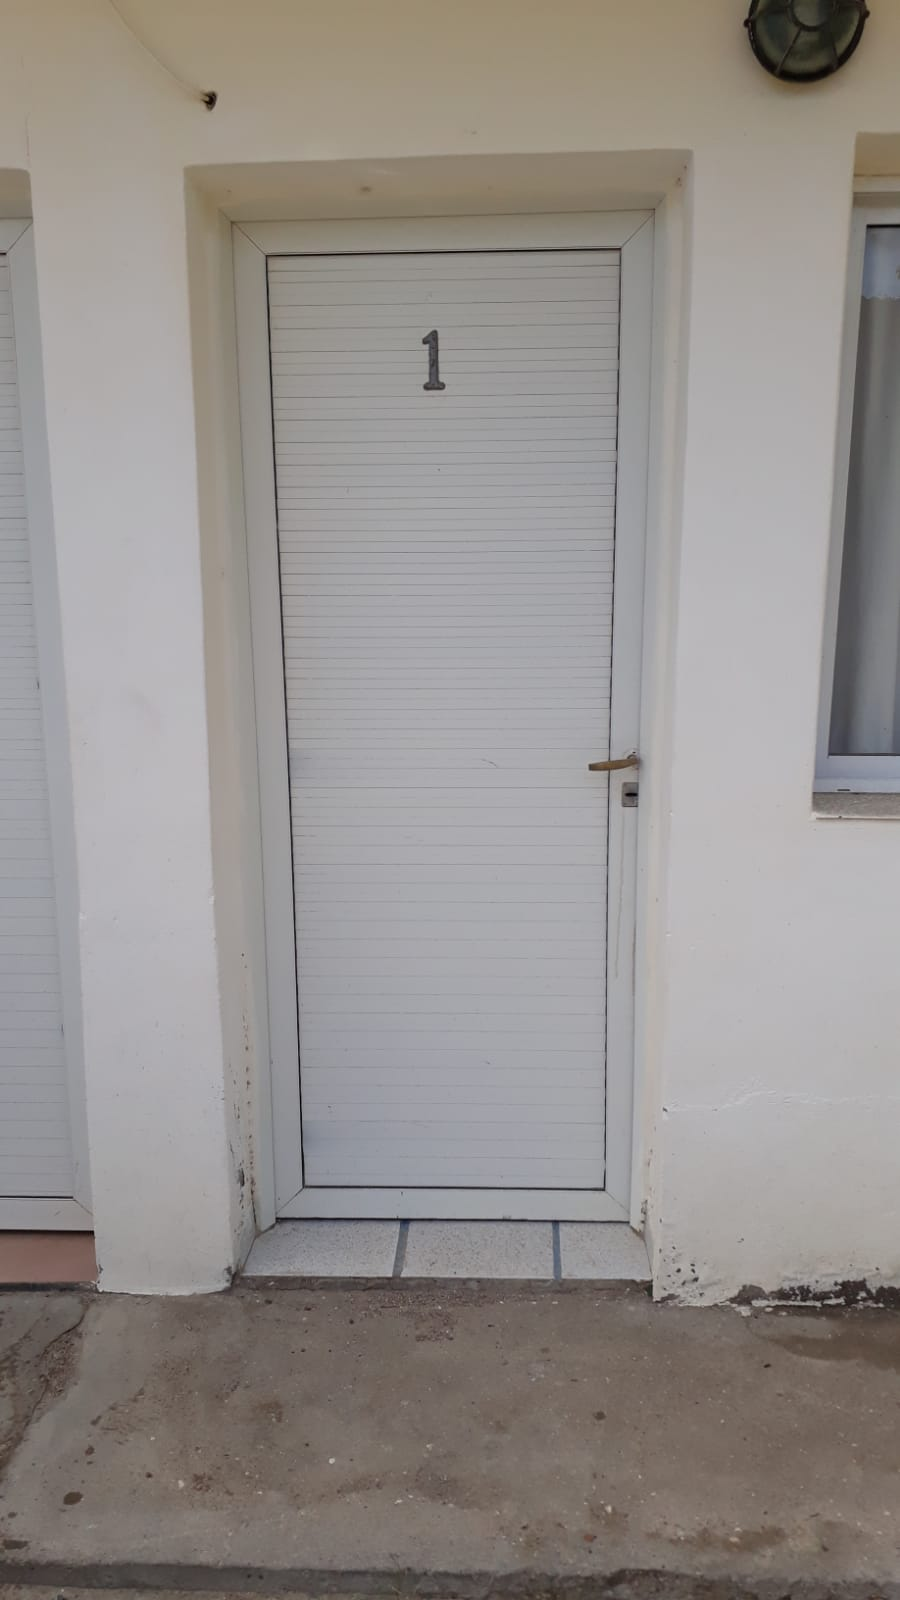
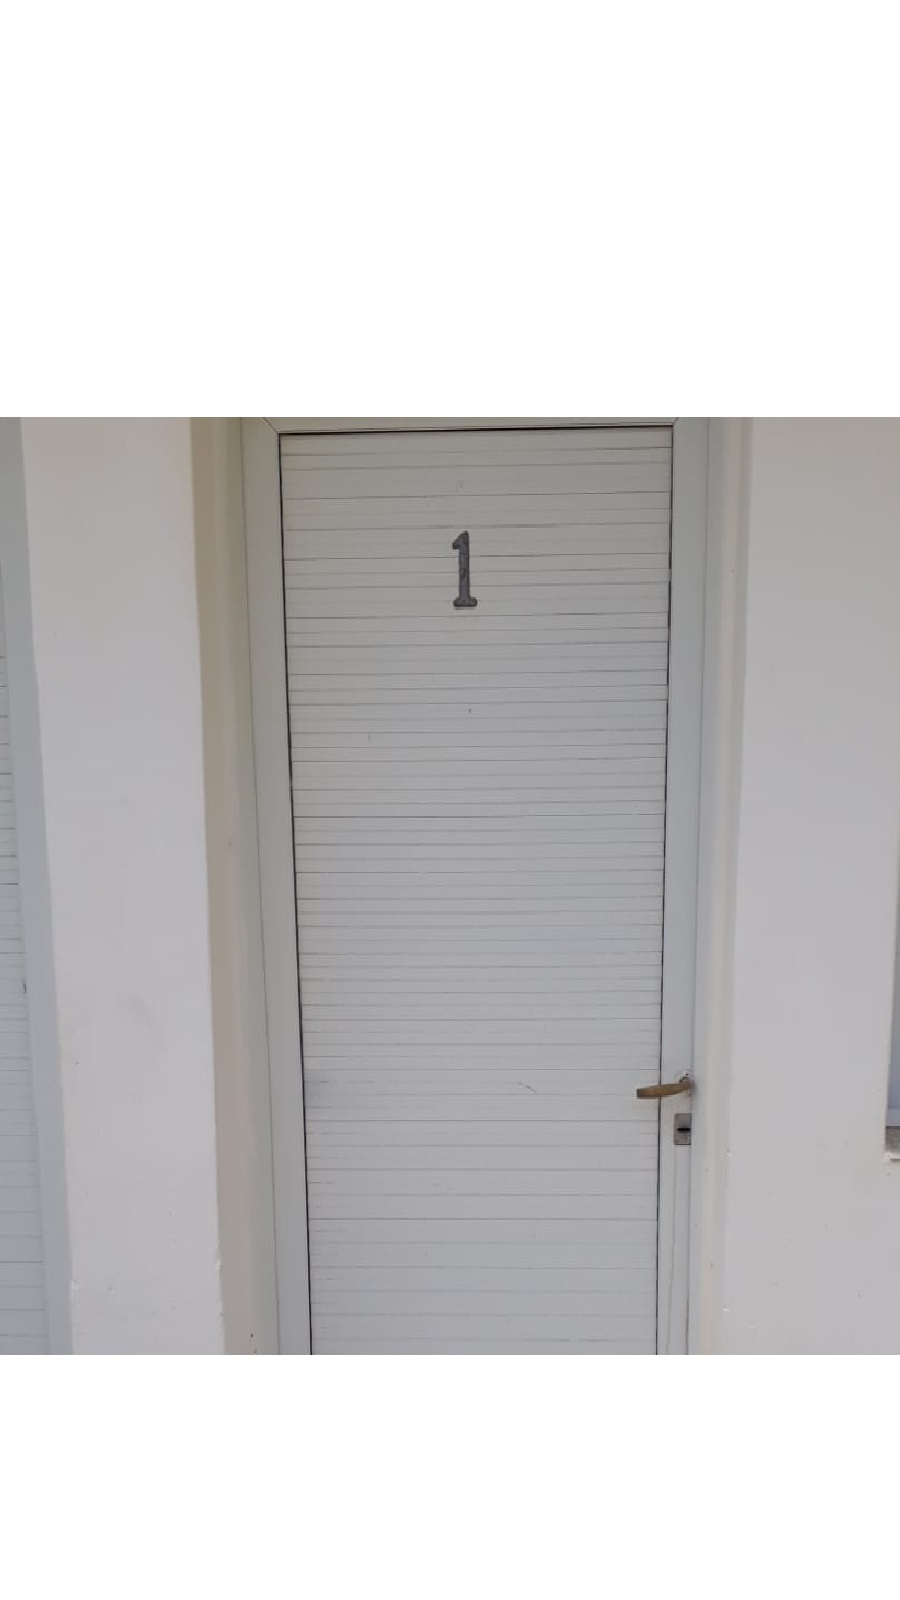
Cambio de imagen

diff --git a/index.html b/index.html
@@ -40,10 +40,10 @@
     <span class="linea"></span>
     <section class="galeria">
         <a href="#imagen1">   
-            <img src="Imagenes/depa-blanco.jpg" alt="">
+            <img src="Imagenes/puerta1.jpg" alt="">
         </a>
         <a href="#imagen2">
-            <img src="Imagenes/puerta1.jpg" alt="">
+            <img src="Imagenes/01.jpg" alt="">
         </a>
         <a href="#imagen3">
             <img src="Imagenes/01.jpg" alt="">
